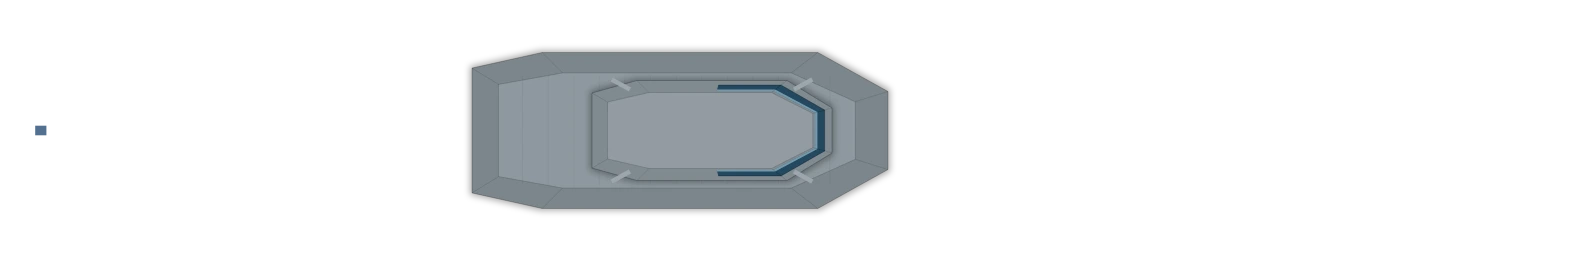
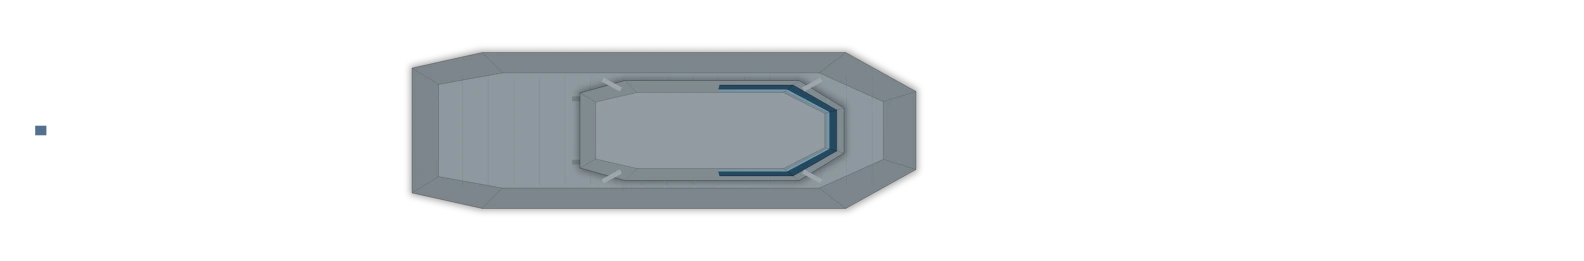
Zumwalt after the owner's plan: traced wedge hull, gun houses at 55 and 31 m, deckhouse from 16 m forward to 48 m aft, flight deck abaft it, forward cells between the guns
fit_audit 137 standard-fit faults.

Claude-Session: https://claude.ai/code/session_0112riLGm4nSjrgsGiYL5DUG

diff --git a/index.html b/index.html
@@ -530,8 +530,8 @@ const DESIGN_LIST = [
   // ---------------------------------------------------------------- Era IV · Network age (the owner's go-ahead, 11 Nov 2026)
   { id: 'ddg_zumwalt', cls: 'ddg', tech: 'stealth', yard: 'tidewater', dn: 'Wraith', model: 'Zumwalt-class destroyer', year: 2016, era: 4, L: 190, B: 24.6, t: 15700, kn: 30, td: 900, armor: 25, crew: 175, price: 235000, power: true,
     // a wave-piercing hull, widest abaft amidships, its sides leaning inboard; one great slab-sided deckhouse and nothing else standing
-    p: { outline: [[95, 0.3], [91, 1.5], [72, 5.0], [48, 8.6], [24, 11.0], [2, 12.1], [-40, 12.3], [-78, 11.7], [-95, 10.7]], stealth: { tumble: true, up: [[-10, 30, 12.5, 2]] }, sup: [[-14, 52, 19.5, 3]], helo: [[-78, 9]] },
-    slots: [sl('M', 62, 0, FWD, 'g155s'), sl('M', 42, 0, FWD, 'g155s'), sl('V', 30, -6, ALL, 'ssm'), sl('V', 30, 6, ALL, 'sam'), sl('V', -58, -7.5, ALL, 'sam'), sl('V', -58, 7.5, ALL, 'ssm'), sl('A', -47, 0, ALL, 'ciws')] },
+    p: { outline: [[95.0, 0.86], [93.39, 1.15], [85.83, 1.29], [81.87, 1.55], [16.97, 12.3], [-95.0, 12.3]], stealth: { tumble: true, up: [[-10, 33, 12.5, 2]] }, sup: [[-16, 63, 19.5, 3]], helo: [[-71, 9]] },
+    slots: [sl('M', 55, 0, FWD, 'g155s'), sl('M', 31, 0, FWD, 'g155s'), sl('V', 43, -6, ALL, 'ssm'), sl('V', 43, 6, ALL, 'sam'), sl('V', -58, -7.5, ALL, 'sam'), sl('V', -58, 7.5, ALL, 'ssm'), sl('A', -47, 0, ALL, 'ciws')] },
   { id: 'ddg_gorshkov', cls: 'ff', tech: 'stealth', yard: 'neva', dn: 'Admiral', model: 'Admiral Gorshkov-class frigate', year: 2018, era: 4, L: 135, B: 16, t: 5400, kn: 29.5, td: 640, armor: 10, crew: 210, price: 95000,
     p: { bow: .38, run: .2, stern: 't', tw: .6, stealth: { up: [[17, 15, 8.5, 2]] }, sup: [[14, 30, 13, 2]], fun: [[-8, 3.2, 2.4]], mast: [[15, 'l']], helo: [[-55, 7]] },
     slots: [sl('M', 52, 0, FWD, 'g130a'), sl('V', 40, 0, ALL, 'ssm'), sl('V', 32, 0, ALL, 'sam'), sl('V', -30, 0, ALL, 'sam'), ...pair('A', -20, 5.6, 'ciws'), sl('T', -17.5, 0, BEAM, 'torh')] },

diff --git a/src/game.html b/src/game.html
@@ -527,8 +527,8 @@ const DESIGN_LIST = [
   // ---------------------------------------------------------------- Era IV · Network age (the owner's go-ahead, 11 Nov 2026)
   { id: 'ddg_zumwalt', cls: 'ddg', tech: 'stealth', yard: 'tidewater', dn: 'Wraith', model: 'Zumwalt-class destroyer', year: 2016, era: 4, L: 190, B: 24.6, t: 15700, kn: 30, td: 900, armor: 25, crew: 175, price: 235000, power: true,
     // a wave-piercing hull, widest abaft amidships, its sides leaning inboard; one great slab-sided deckhouse and nothing else standing
-    p: { outline: [[95, 0.3], [91, 1.5], [72, 5.0], [48, 8.6], [24, 11.0], [2, 12.1], [-40, 12.3], [-78, 11.7], [-95, 10.7]], stealth: { tumble: true, up: [[-10, 30, 12.5, 2]] }, sup: [[-14, 52, 19.5, 3]], helo: [[-78, 9]] },
-    slots: [sl('M', 62, 0, FWD, 'g155s'), sl('M', 42, 0, FWD, 'g155s'), sl('V', 30, -6, ALL, 'ssm'), sl('V', 30, 6, ALL, 'sam'), sl('V', -58, -7.5, ALL, 'sam'), sl('V', -58, 7.5, ALL, 'ssm'), sl('A', -47, 0, ALL, 'ciws')] },
+    p: { outline: [[95.0, 0.86], [93.39, 1.15], [85.83, 1.29], [81.87, 1.55], [16.97, 12.3], [-95.0, 12.3]], stealth: { tumble: true, up: [[-10, 33, 12.5, 2]] }, sup: [[-16, 63, 19.5, 3]], helo: [[-71, 9]] },
+    slots: [sl('M', 55, 0, FWD, 'g155s'), sl('M', 31, 0, FWD, 'g155s'), sl('V', 43, -6, ALL, 'ssm'), sl('V', 43, 6, ALL, 'sam'), sl('V', -58, -7.5, ALL, 'sam'), sl('V', -58, 7.5, ALL, 'ssm'), sl('A', -47, 0, ALL, 'ciws')] },
   { id: 'ddg_gorshkov', cls: 'ff', tech: 'stealth', yard: 'neva', dn: 'Admiral', model: 'Admiral Gorshkov-class frigate', year: 2018, era: 4, L: 135, B: 16, t: 5400, kn: 29.5, td: 640, armor: 10, crew: 210, price: 95000,
     p: { bow: .38, run: .2, stern: 't', tw: .6, stealth: { up: [[17, 15, 8.5, 2]] }, sup: [[14, 30, 13, 2]], fun: [[-8, 3.2, 2.4]], mast: [[15, 'l']], helo: [[-55, 7]] },
     slots: [sl('M', 52, 0, FWD, 'g130a'), sl('V', 40, 0, ALL, 'ssm'), sl('V', 32, 0, ALL, 'sam'), sl('V', -30, 0, ALL, 'sam'), ...pair('A', -20, 5.6, 'ciws'), sl('T', -17.5, 0, BEAM, 'torh')] },
